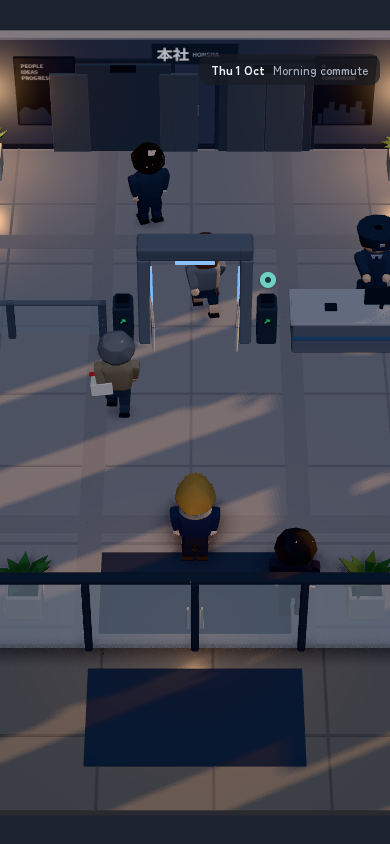
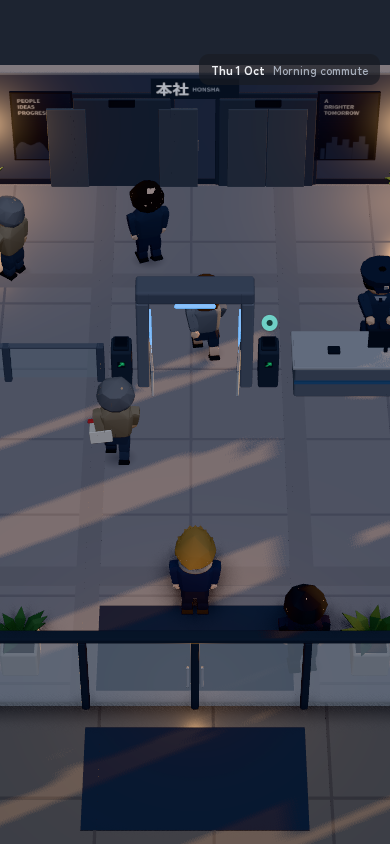
game3d: office tint, filing row, corridor bench; gate phone framing
Claude-Session: https://claude.ai/code/session_01De42hGxD43zvtRt5qbbiWq

diff --git a/game3d/js/scenes/office.js b/game3d/js/scenes/office.js
@@ -264,12 +264,12 @@ export function buildOffice() {
   }
 
   // ---- floors ----
-  root.add(tileFloor(X0, X1, Z0, Z1, 0.8, { color: '#9d9aa3', seam: '#8c8992' }));
-  root.add(tileFloor(X0, X1, CN, CS, 0.8, { color: '#94929a', seam: '#84828a', y: 0.003 }));                 // corridor, older vinyl
+  root.add(tileFloor(X0, X1, Z0, Z1, 0.8, { color: '#979ca4', seam: '#868b93' }));
+  root.add(tileFloor(X0, X1, CN, CS, 0.8, { color: '#8f949b', seam: '#80858c', y: 0.003 }));                 // corridor, older vinyl
   root.add(tileFloor(3.4, X1, Z0, CN, 0.6, { color: '#9da2a8', seam: '#8d9298', y: 0.003 }));                // machine room, painted concrete
   root.add(tileFloor(1.8, X1, CS, Z1, 0.4, { color: '#c9cccd', seam: '#b3b7ba', y: 0.003 }));                // toilets
   root.add(tileFloor(-7, -2.2, CS, Z1, 1.0, { color: '#9ea0a3', seam: '#909295', y: 0.003 }));              // copy room sheet vinyl
-  root.add(tileFloor(-2.2, 1.8, CS, Z1, 1.0, { color: '#a09ea3', seam: '#918f94', y: 0.003 }));             // kitchenette
+  root.add(tileFloor(-2.2, 1.8, CS, Z1, 1.0, { color: '#9ca0a6', seam: '#8d9197', y: 0.003 }));             // kitchenette
 
   // ---- walls ----
   const W = (...a) => root.add(wall(...a));
@@ -353,6 +353,10 @@ export function buildOffice() {
   { const p = plant({ size: 1.2, seed: 1, tall: 1.4 }); p.position.set(2.95, 0, Z0 + 0.45); root.add(p); }
   { const p = plant({ size: 1.0, seed: 3 }); p.position.set(-3.85, 0, -0.35); root.add(p); }
   for (const [x, z, s] of [[2.9, -1.5, 0.42], [2.85, -1.0, 0.36], [2.3, -0.35, 0.34]]) root.add(rbox(s, s * 0.8, s, PAL.box, { x, z, r: 0.02 }));
+  // filing row and plant along the office's left wall
+  for (let i = 0; i < 3; i++) { const f = filingCabinet(3, '#858b95'); f.rotation.y = Math.PI / 2; f.position.set(-3.95, 0, -1.9 - i * 0.48 + 0.0); root.add(f); }
+  // a bench in the corridor, by the office door
+  { const bc = bench(1.4, { seats: 2 }); bc.position.set(-1.9, 0, 0.62); root.add(bc); }
   const cr = coatRack(); cr.position.set(1.1, 0, -0.45); root.add(cr);
   // a small meeting table below the island, for the morning huddle
   { const mt = new THREE.Group(); mt.add(rbox(0.9, 0.04, 0.6, '#d5d6d3', { y: 0.4, r: 0.01 }), rbox(0.08, 0.4, 0.08, PAL.deskLeg, { r: 0.01 })); for (const x of [-0.3, 0.3]) mt.add(rbox(0.3, 0.05, 0.28, PAL.chair, { x, y: 0.24, z: 0.45, r: 0.02 }), rbox(0.03, 0.24, 0.03, PAL.deskLeg, { x, z: 0.45, r: 0.01 })); mt.add(rbox(0.3, 0.02, 0.22, PAL.paper, { x: 0.15, y: 0.44, r: 0.005 })); mt.position.set(-2.4, 0, -1.15); root.add(mt); }
@@ -483,6 +487,7 @@ export function buildOffice() {
   for (const x0 of [1.8, 4.4]) { B(x0 + 0.1, x0 + 2.55, 5.3, Z1); B(x0 + 2.15, x0 + 2.55, 3.15, 3.65); B(x0 + 2.2, x0 + 2.5, 3.85, 4.15); B(x0 + 0.25, x0 + 1.2, CS, CS + 0.32); }
   B(-4.55, -4.05, 1.85, CS); B(2.95, 3.45, 1.85, CS); B(1.45, 1.75, 1.85, 2.1); B(0.55, 1.12, 1.95, CS); B(-2.65, -2.15, 1.85, CS);
   B(-6.6, -5.8, 5.6, Z1); B(-3.95, -3.35, 2.9, 3.5); B(-2.1, -1.7, 3.4, 3.8); B(-2.15, -1.55, 4.35, 5.45); B(-2.7, -2.25, 4.8, 6.0);
+  B(-4.2, -3.7, -3.1, -1.6); B(-2.7, -1.1, 0.35, 0.9);
   nav.blockTagged('emi', -5.5, -5.1, -1.55, -1.15);
 
   for (const r of [nao, hiro, yui, sota]) r.root.visible = false;

diff --git a/game3d/js/places/lobby.js b/game3d/js/places/lobby.js
@@ -87,7 +87,7 @@ export async function lobbyPlace(game) {
 
   // background people who aren't going anywhere yet
   const extras = [];
-  for (const [k, x, z, ry] of [[4, -3.5, -2.9, 0.9], [2, -2.95, -2.6, -2.2], [5, 4.75, 3.0, Math.PI / 2 + 0.4]]) {
+  for (const [k, x, z, ry] of [[4, -3.0, -2.9, 0.9], [2, -2.45, -2.6, -2.2], [5, 4.75, 3.0, Math.PI / 2 + 0.4]]) {
     const r = PEOPLE.worker(k); r.root.scale.multiplyScalar(K); r.root.position.set(x, 0, z); r.root.rotation.y = ry; w.root.add(r.root);
     const b = blob(0.5, 0.35); b.position.set(x, 0.004, z); w.root.add(b); extras.push(r);
     w.nav.block(x - 0.2, x + 0.2, z - 0.2, z + 0.2);
@@ -167,7 +167,7 @@ export async function lobbyPlace(game) {
       const pts = [];
       for (const x of [-X - 0.2, X + 0.2]) for (const z of [-Z - 0.2, Z + 0.3]) for (const y of [0, 1.6]) pts.push(new THREE.Vector3(x, y, z));
       if (aspect >= 1) cam.fit(aspect, [new THREE.Vector3(-5.6, 0, 0), new THREE.Vector3(5.6, 0, 0), new THREE.Vector3(0, 1.95, -Z), new THREE.Vector3(0, 0, Z + 0.1)], new THREE.Vector3(0, 0, 0.05), { follow: true, clamp: [-0.9, 0.9, 0.05, 0.05], limY: 0.97 });
-      else cam.fit(aspect, [new THREE.Vector3(-2.4, 0, 0), new THREE.Vector3(2.4, 0, 0), new THREE.Vector3(0, 0, -2.7), new THREE.Vector3(0, 1.4, 2.5)], new THREE.Vector3(0, 0, 0), { follow: true, clamp: [-X + 2.4, X - 2.4, -Z + 2.0, Z - 2.9], lead: -2.2 });
+      else cam.fit(aspect, [new THREE.Vector3(-2.4, 0, 0), new THREE.Vector3(2.4, 0, 0), new THREE.Vector3(0, 0, -2.7), new THREE.Vector3(0, 1.4, 2.5)], new THREE.Vector3(0, 0, 0), { follow: true, clamp: [-X + 2.4, X - 2.4, -Z + 2.0, Z - 2.9], lead: -3.0 });
     },
     pick(rc) { const p = new THREE.Vector3(); return rc.ray.intersectPlane(floor, p) ? p : null; },
     walkPerson(id, [x, z], { speed } = {}) {
